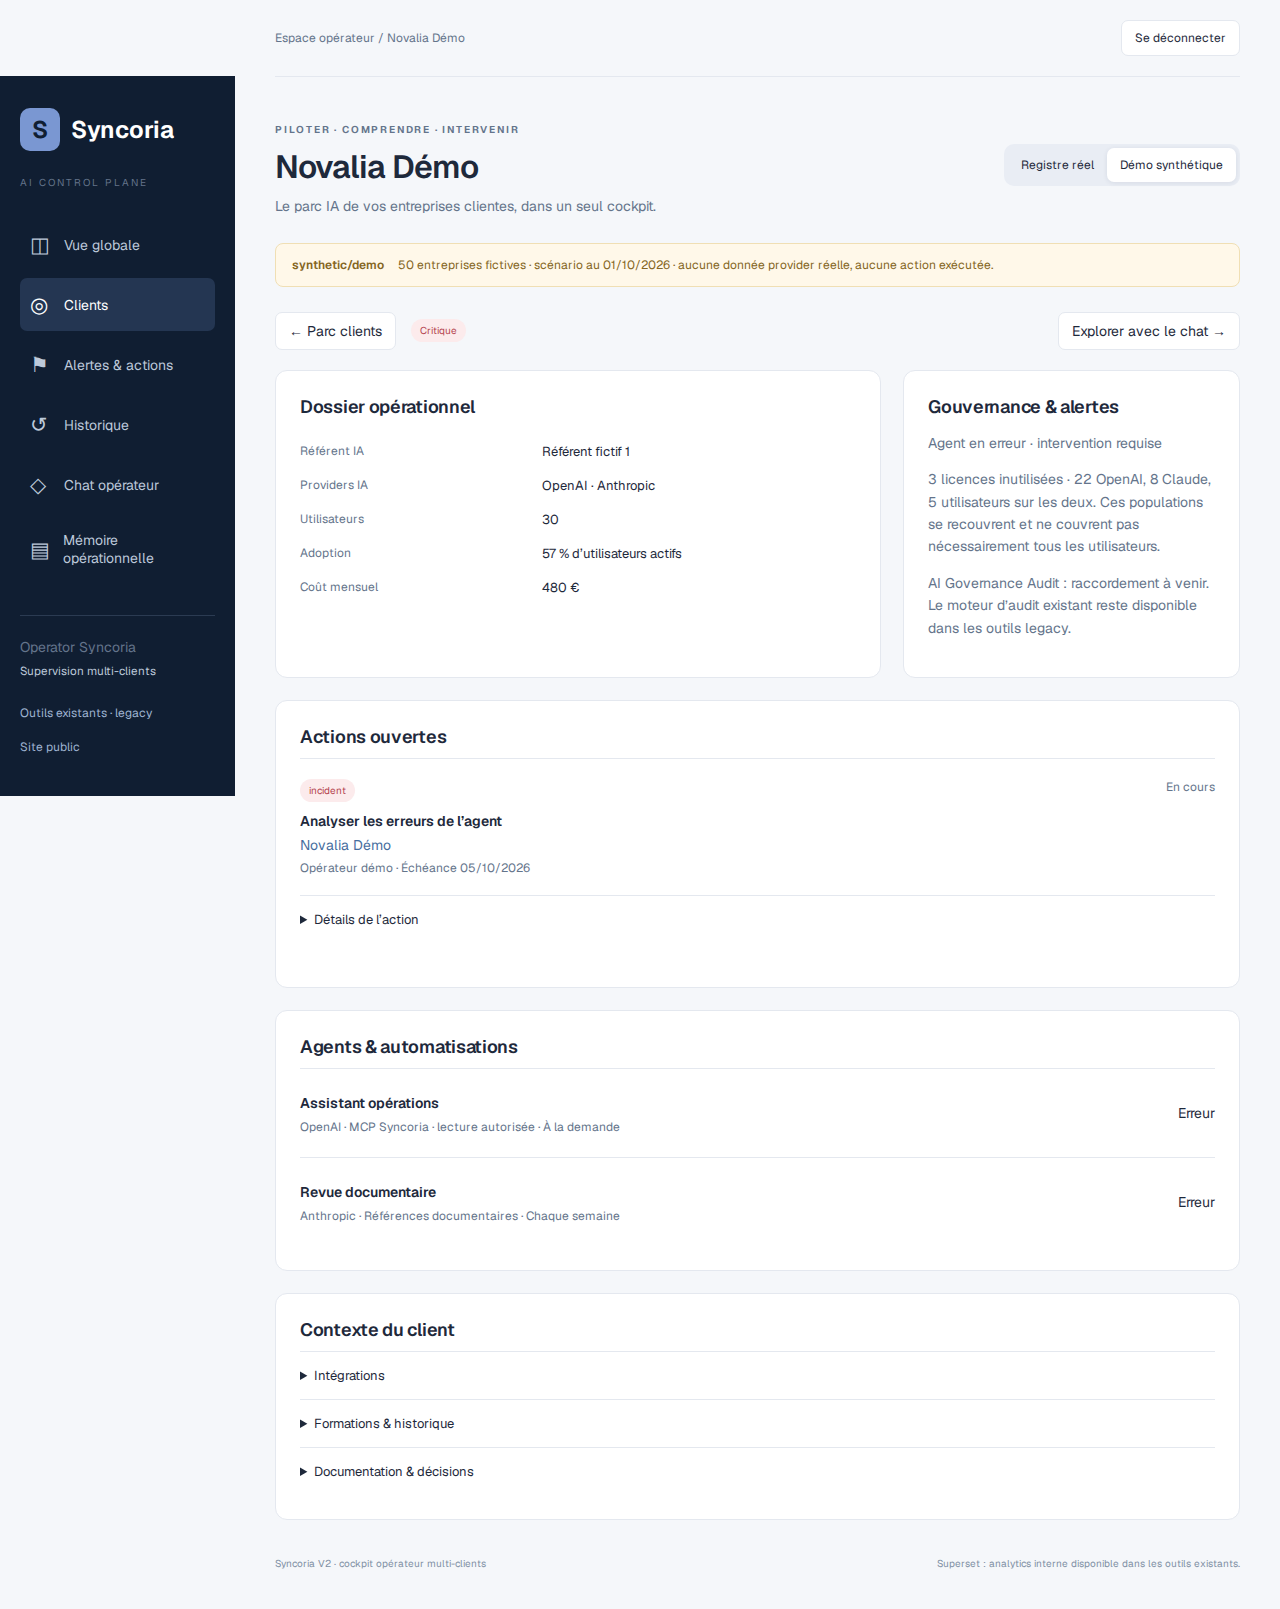
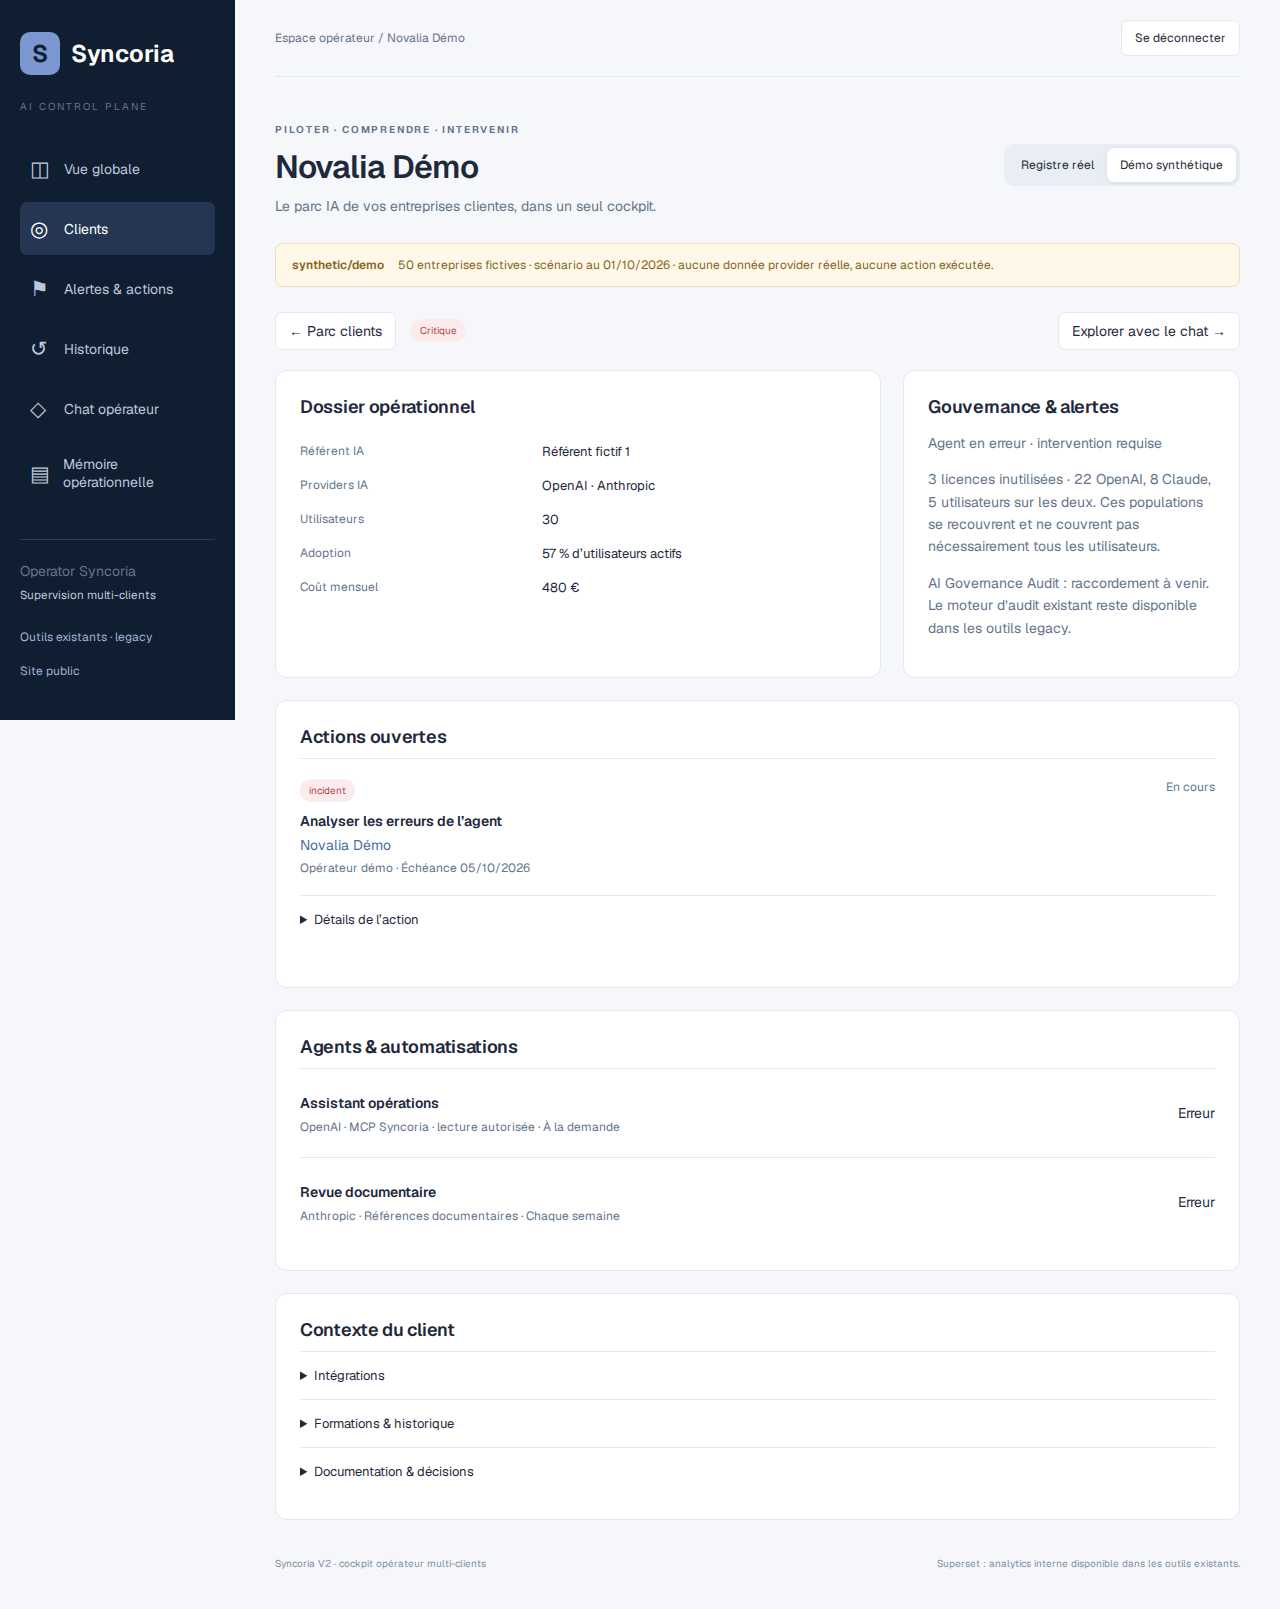
test(cockpit): synchronize menu state and stabilize V2 captures

Changed region(s): [[0.0, 0.0, 0.1875, 0.4972]]

diff --git a/tests/browser/controlPlane.spec.ts b/tests/browser/controlPlane.spec.ts
@@ -40,6 +40,7 @@ test("real registry, explicit demo, tenant context and disabled runtime", async 
   await expect(page.getByText("synthetic/demo", { exact: true })).toBeVisible();
   await expect(page.getByText("50", { exact: true })).toBeVisible();
   await mkdir("docs/screenshots/control-plane", { recursive: true });
+  await page.evaluate(() => window.scrollTo(0, 0))
   await page.screenshot({
     path: "docs/screenshots/control-plane/overview.png",
     fullPage: true,
@@ -51,6 +52,7 @@ test("real registry, explicit demo, tenant context and disabled runtime", async 
   await expect(
     page.getByRole("heading", { name: "Analyser les erreurs de l’agent" }),
   ).toHaveCount(1);
+  await page.evaluate(() => window.scrollTo(0, 0))
   await page.screenshot({
     path: "docs/screenshots/control-plane/tenant.png",
     fullPage: true,
@@ -88,6 +90,7 @@ test("mobile fleet remains usable without horizontal overflow", async ({
       () => document.documentElement.scrollWidth <= window.innerWidth,
     ),
   ).toBe(true);
+  await page.evaluate(() => window.scrollTo(0, 0))
   await page.screenshot({
     path: "docs/screenshots/control-plane/mobile.png",
     fullPage: true,

diff --git a/tests/browser/uiFoundation.spec.ts b/tests/browser/uiFoundation.spec.ts
@@ -34,17 +34,23 @@ test('action menu closes after selection and when focus leaves the menu', async 
 
   await trigger.click()
   await expect(menu).toHaveAttribute('open', '')
+  // Native details toggles before React receives its asynchronous toggle event.
+  await expect(trigger).toHaveAttribute('aria-expanded', 'true')
 
   await menu.getByRole('button', { name: 'Ouvrir', exact: true }).click()
   await expect(menu).not.toHaveAttribute('open', '')
 
   await trigger.click()
   await expect(menu).toHaveAttribute('open', '')
+  // Native details toggles before React receives its asynchronous toggle event.
+  await expect(trigger).toHaveAttribute('aria-expanded', 'true')
   await page.locator('#action-menu-focus-target').focus()
   await expect(menu).not.toHaveAttribute('open', '')
 
   await trigger.click()
   await expect(menu).toHaveAttribute('open', '')
+  // Native details toggles before React receives its asynchronous toggle event.
+  await expect(trigger).toHaveAttribute('aria-expanded', 'true')
   await page.keyboard.press('Escape')
   await expect(menu).not.toHaveAttribute('open', '')
   await expect(trigger).toHaveAttribute('aria-expanded', 'false')
